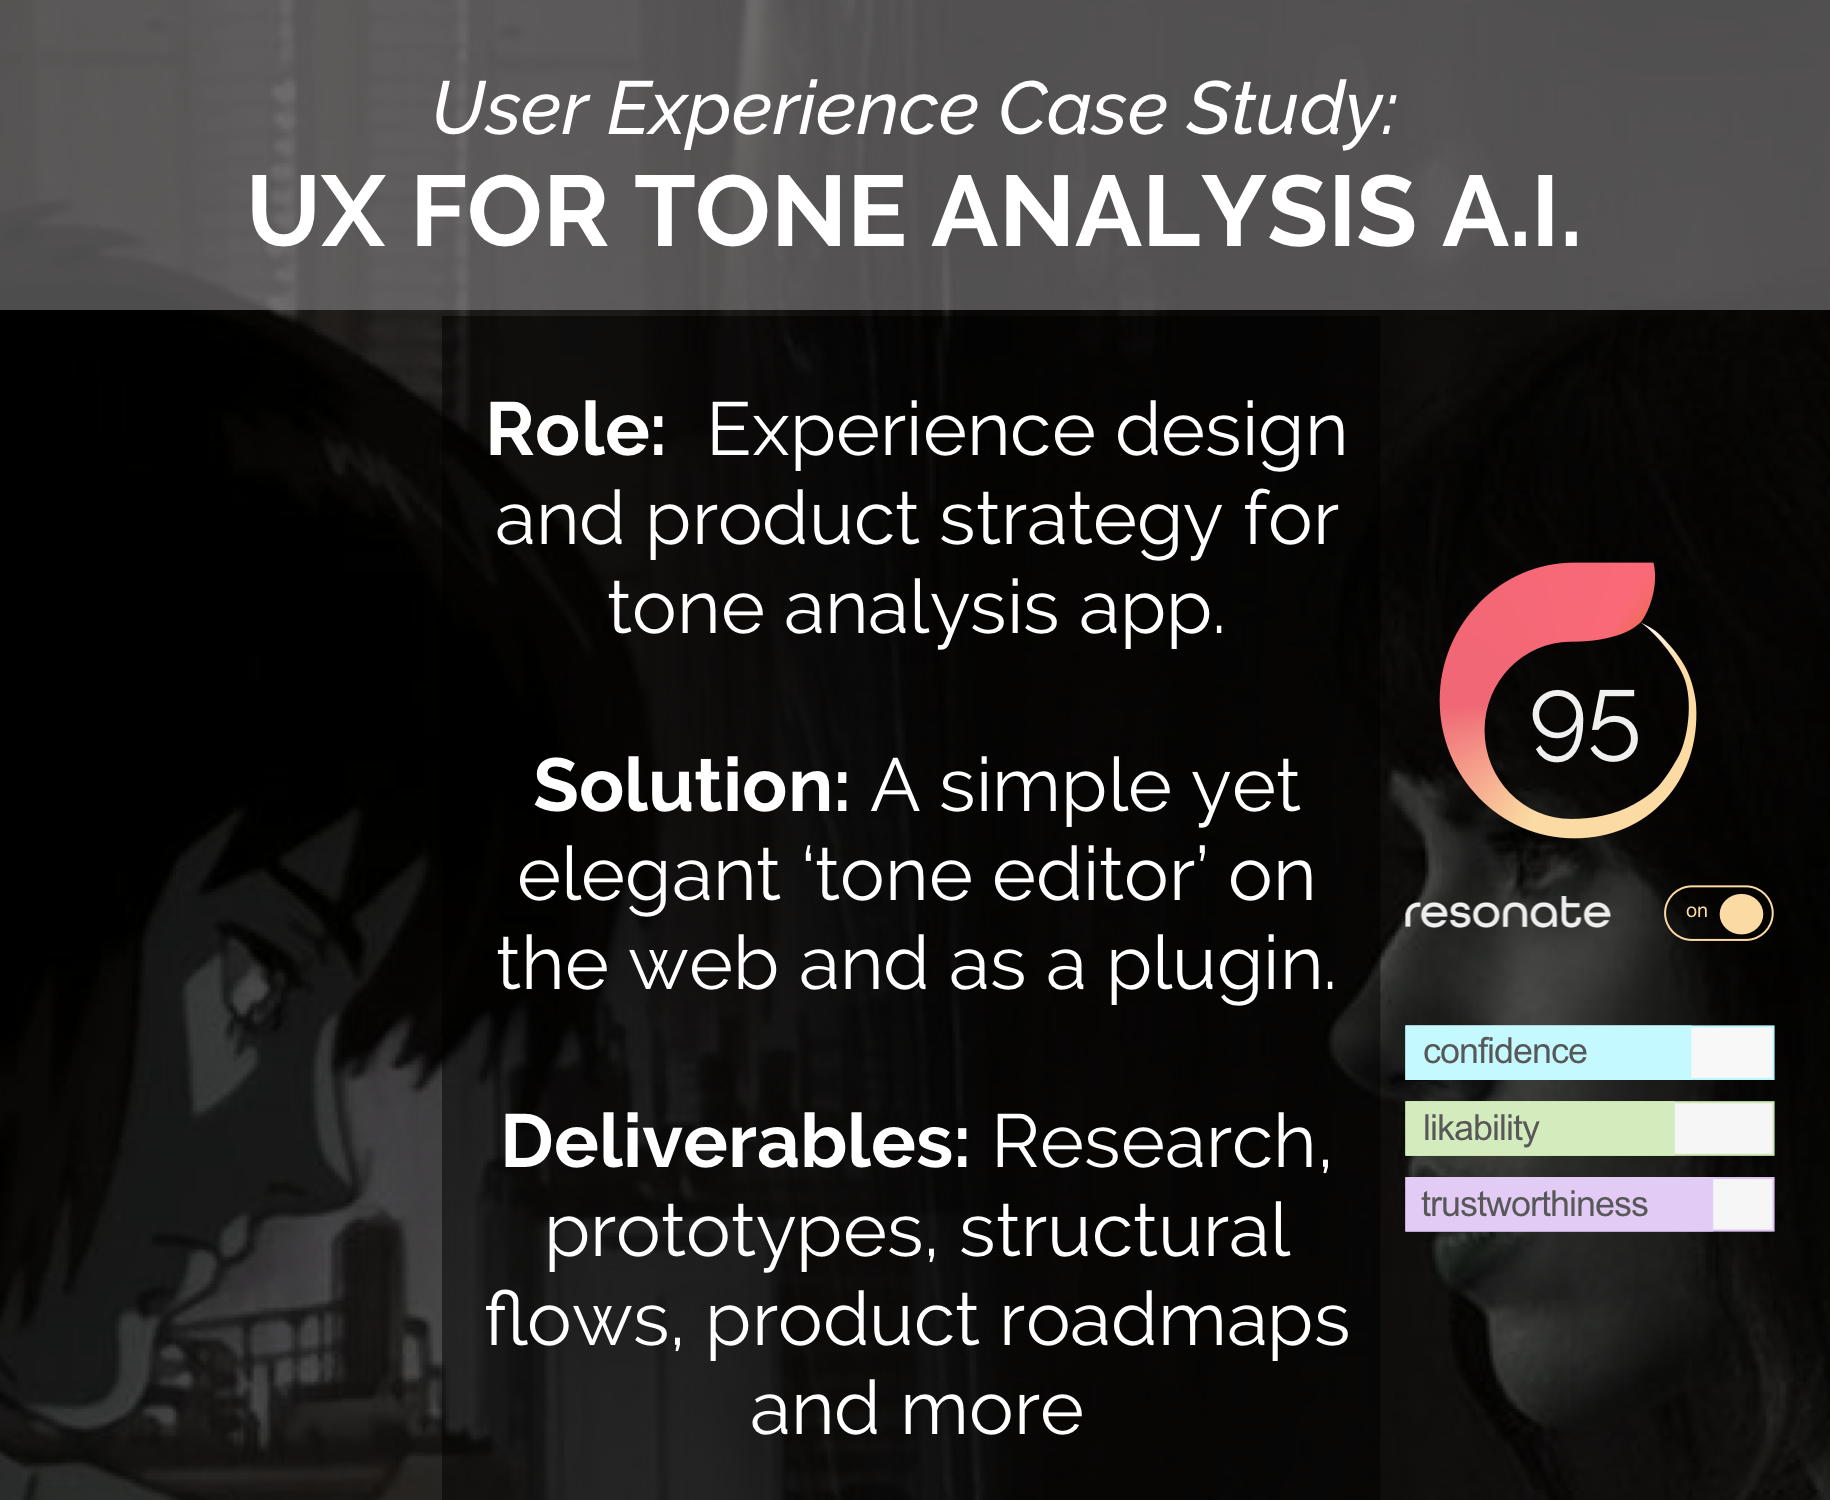
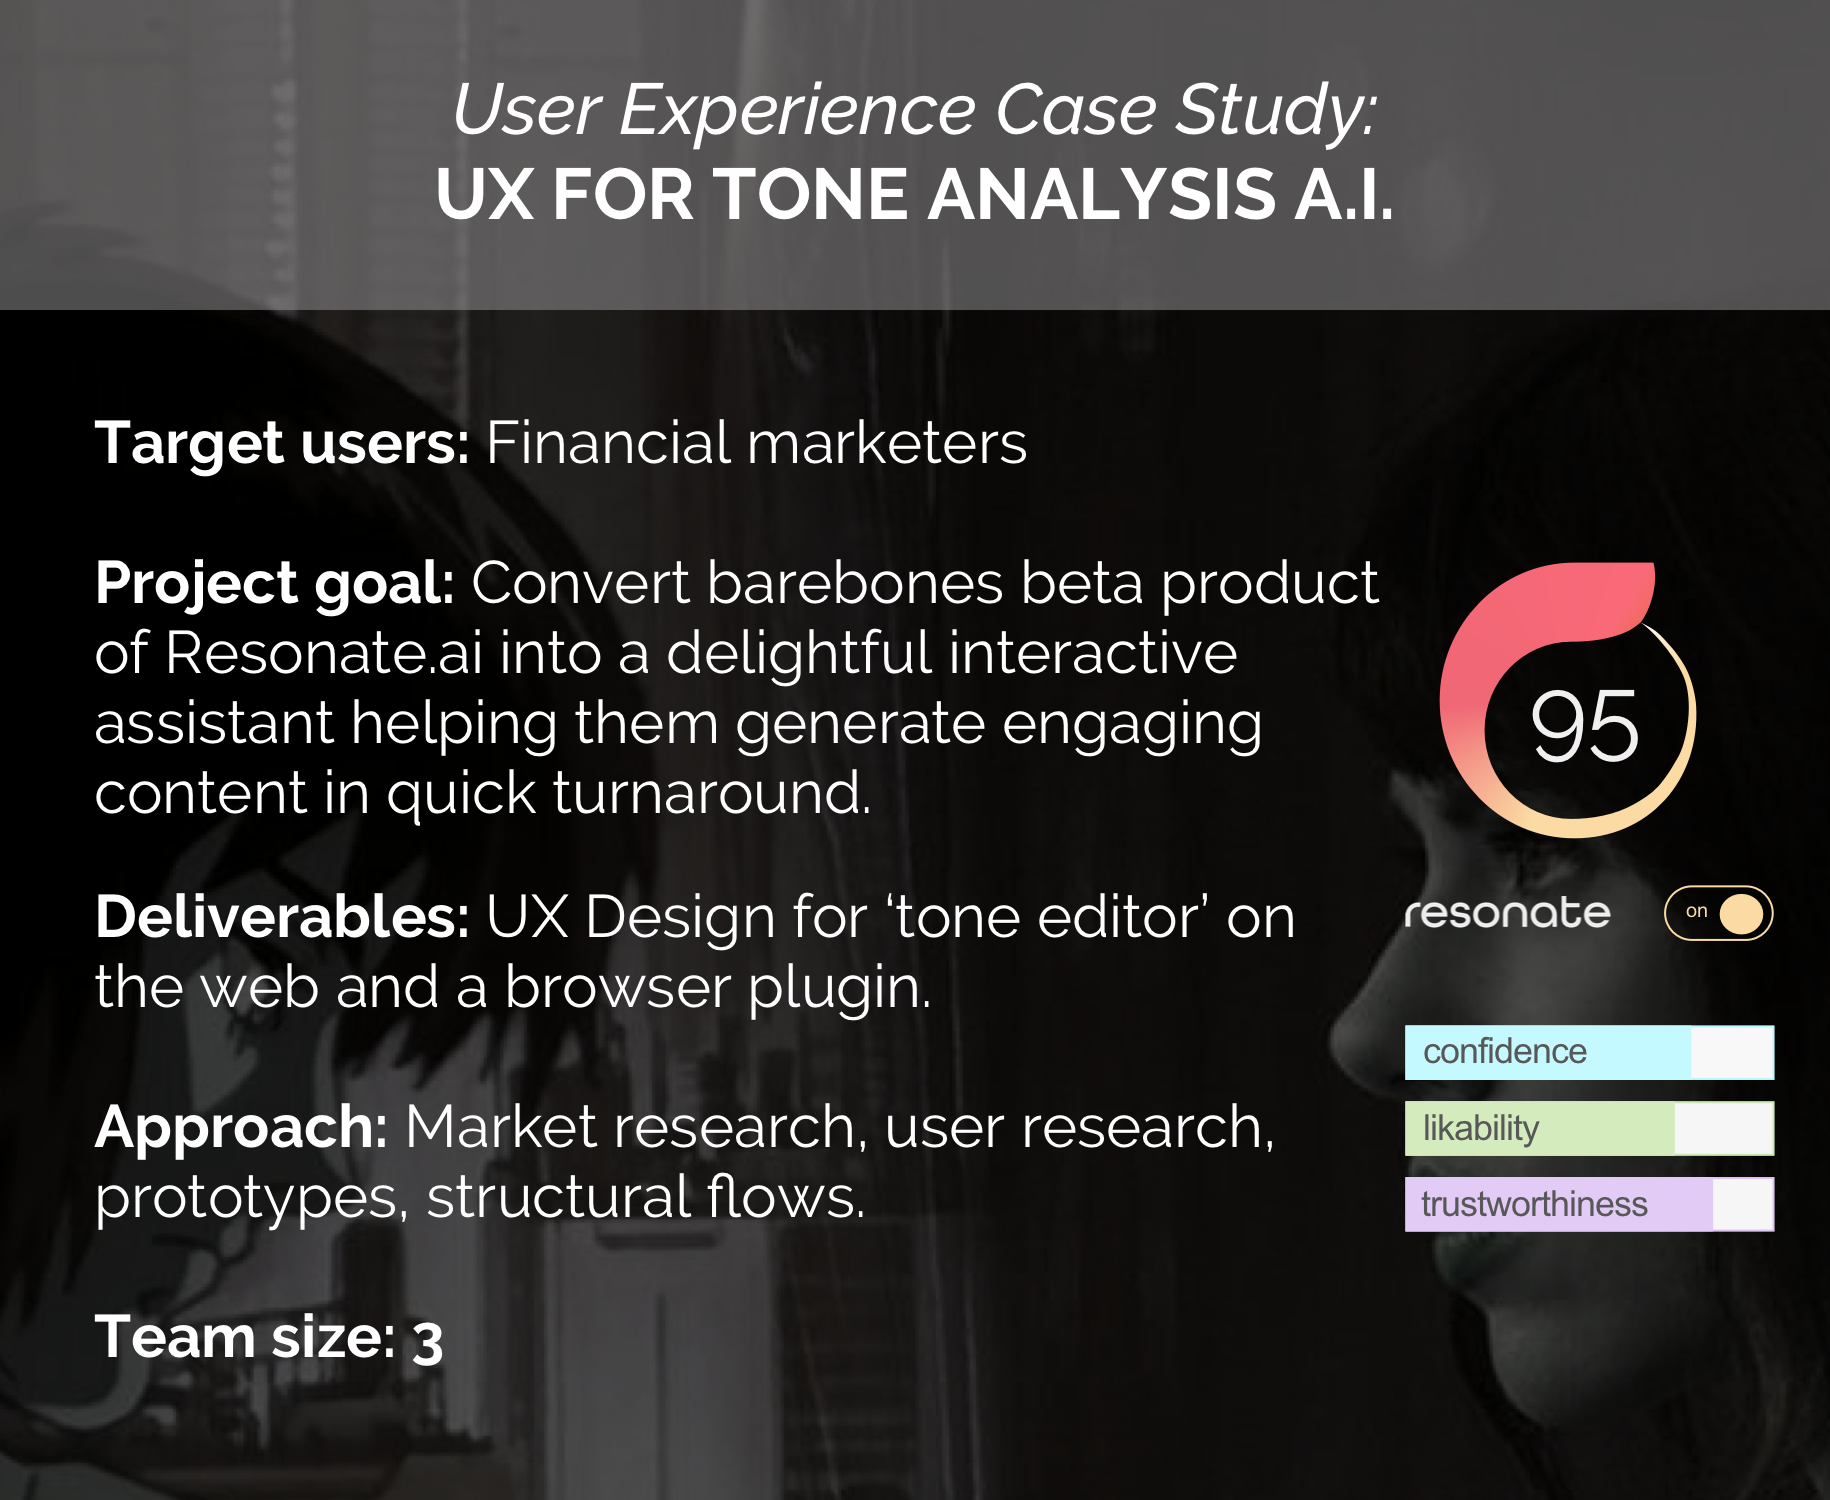
resonateai case study done

Changed region(s): [[0.0311, 0.2147, 0.7787, 1.0], [0.1246, 0.0307, 0.8721, 0.184]]

diff --git a/aartics/projects/resonateai/index.htm b/aartics/projects/resonateai/index.htm
@@ -12,7 +12,7 @@
 <body>
 <div id="header-wrapper">
   <div id="header-banner">
-    <div id="back-button"><a href="aartics.com">Back</a></div>
+    <div id="back-button"><a href="http://www.aartics.com">Back</a></div>
     <span class="project-name">
       resonate.ai
     </span>
@@ -23,41 +23,68 @@
   <img id="cover" src="local_img/001.png"/>
 
   <div class="image-title">
-  This is a pic
+  Resonate.ai - Before
   </div>
-  <video width="740" height="600" autoplay controls loop>
-    <source src="https://s3-us-west-2.amazonaws.com/aartics-portfolio/projects/resonateai/img/resonate_editor_final.mp4" type="video/mp4">
-  </video>
+  <img src="local_img/res_before_01.png">
   <div class="image-title">
-  This is a pic
+  Resonate.ai - After
+  </div>
+  <img src="local_img/res_after_01.png">
+
+  <div class="image-title">
+  Market Research<br>
+  <h2>Competitive and Comparative Analysis</h2>
+  <p>Studied current competitors, inline text editors and document composers. Also studied MailChimp's product voice and tone guide.</p>
+  <p>Outcomes: Cleaner visualization of an inline text editor, idea of delightful interaction including clear tonality guide, and Key features needed for the product.</p>
   </div>
   <img src="local_img/resonate_comp_analysis.png">
   <div class="image-title">
-  This is a pic
+  Personas
+  <p><br>Developed key personas for members of a financial startup and identified their habits, goals, and needs.</p>
   </div>
-  <img src="local_img/resonate_personas.png">
+  <img src="local_img/res_user_personas.png">
+
   <div class="image-title">
-  This is a pic
+  User testing with paper prototype
+  <p><br>Quick paper prototype was used in early usability testing, leading to identification of new features and clear prioritization among them. <br><br> This also led us to research on simplifying the tonality.</p>
+  </div>
+  <img src="local_img/resonate_paper_prototype.jpg">
+
+
+  <div class="image-title">
+  Restructuring tonality:
+  <p><br>User research led us to remove  non measurable tones like "joy", "anticipation", and "popularity" from the previous list. Simplified the classes, classified it under 'Persuation' and 'Moments'. <br> <br>Final product scored users on "Trust", "Confidence", and "Likability", leading to better resonance with the audience.</p>
+
+  </div>
+  <img src="local_img/res_structural_change.png">
+
+
+  <div class="image-title">
+  More prototyping
+  <h2>Clickable slide-based prototypes for gathering feedback</h2>
+  </div>
+  <img src="local_img/res_more_prototyping.png">
+
+  <div class="image-title">
+  Product mockup
   </div> 
   <video width="740" height="600" autoplay controls loop>
-    <source src="https://s3-us-west-2.amazonaws.com/aartics-portfolio/projects/resonateai/img/resonate_strategy.mp4" type="video/mp4">
+    <source src="https://s3-us-west-2.amazonaws.com/aartics-portfolio/projects/resonateai/img/resonate_editor_final.mp4" type="video/mp4">
   </video>
+  
   <div class="image-title">
-  This is a pic
-  </div> 
-  <img src="local_img/resonate_product_roadmap.png">
-  <div class="image-title">
-  This is a pic
+  Feature and User Flow Map
+<!--   <h2>Feature and User flow Map</h2> -->
+  <p> <br>Additionally, I generated 'user flow' map for developers to easily understand the complete product flows and scope the development efforts requried in engineering the product.</p>
   </div> 
   <img src="local_img/resonate_structural_flows.png">
+
   <div class="image-title">
-  This is a pic
+  Product Roadmap 
+  <!--<h2> Product Roadmap</h2>-->
+  <p> Additionally synthesized the complete research and ideas into a phase-wise product roadmap. This included creation of an clear vision and feature plan for an Enterprise version for the startup product.</p>
   </div> 
-  <img src="local_img/resonate_chrome_mockup.png">
-  <div class="image-title">
-  This is a pic
-  </div> 
-  <img src="local_img/resonate_interview.png">
+  <img src="local_img/resonate_product_roadmap.png">
 </div>
 
 

diff --git a/aartics/projects/aartics_projects.css b/aartics/projects/aartics_projects.css
@@ -36,23 +36,37 @@
 
 .image-title {
   font-family: 'Raleway', sans-serif;
+  font-weight:bolder;
   padding: 10px;
   margin-top: 10px;
   border-style: solid;
-  border-width: 3px 0 3px 0;
-  border-color: #ED254E;
-  background-color: #235789;
-  color: #F1D302;
-  font-size: 3vw;
+  border-width: 2px 0 0 0;
+  border-color: #efefef;
+  background-color: #ffffff;
+  color: #000000;
+  font-size: 3.1vw;
 
+}
+
+.image-title h2 {
+  font-size: 2.6vw;
+  font-weight:lighter;
+  padding-top: 0;
+  margin-top: 0;
+  color: #000000;
 }
 
 .image-title p {
-  font-size: 2.7vw;
+  width: 80%;
+  padding-left: 10%;
+  text-align: left;
+  font-size: 2.2vw;
+  font-weight:lighter;
   padding-top: 0;
   margin-top: 0;
-  color: #F4FFFD;
+  color: #000000;
 }
+
 
 body {
   background-color: white;
